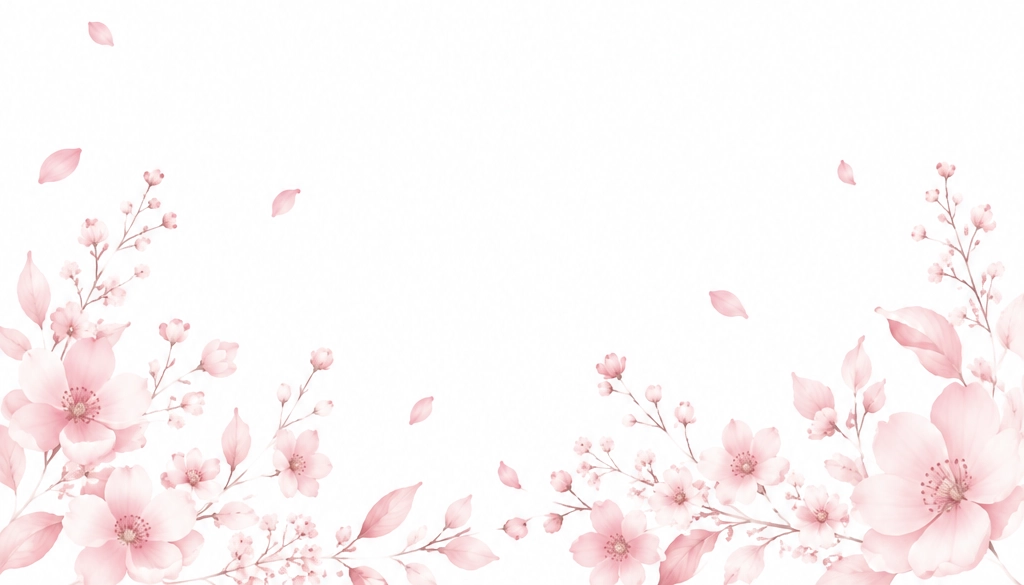
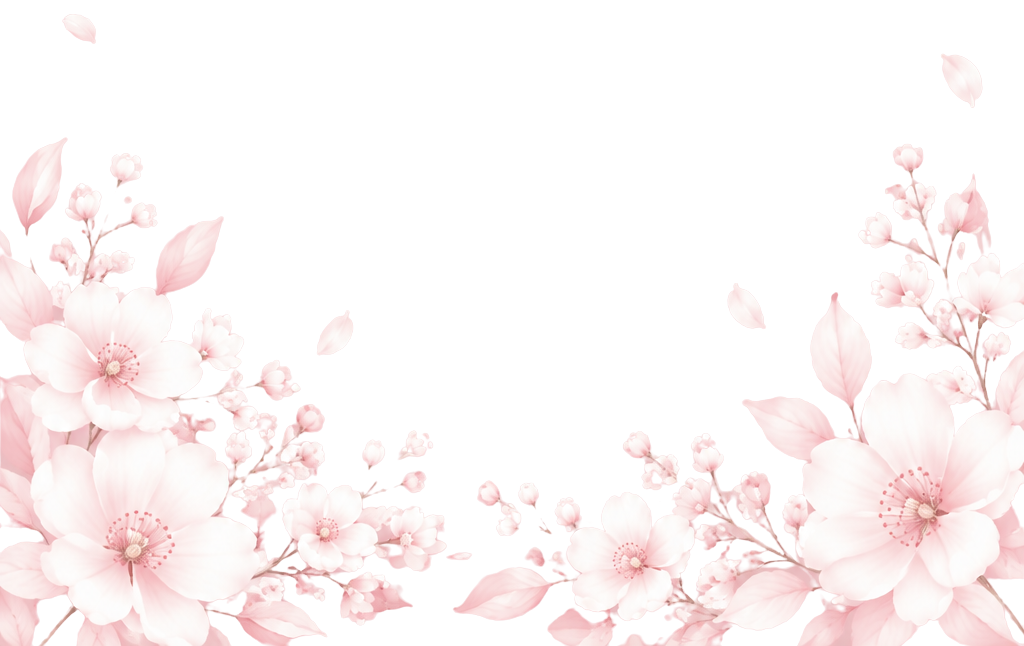
style: resize divider and update header/footer assets

diff --git a/css/style.css b/css/style.css
@@ -163,7 +163,7 @@ main {
 /* Watercolor divider image between sections */
 .leaf-divider {
   display: block;
-  width: 180px;
+  width: 250px;
   margin: 0 auto 30px auto;
   opacity: 0.9;
 }
